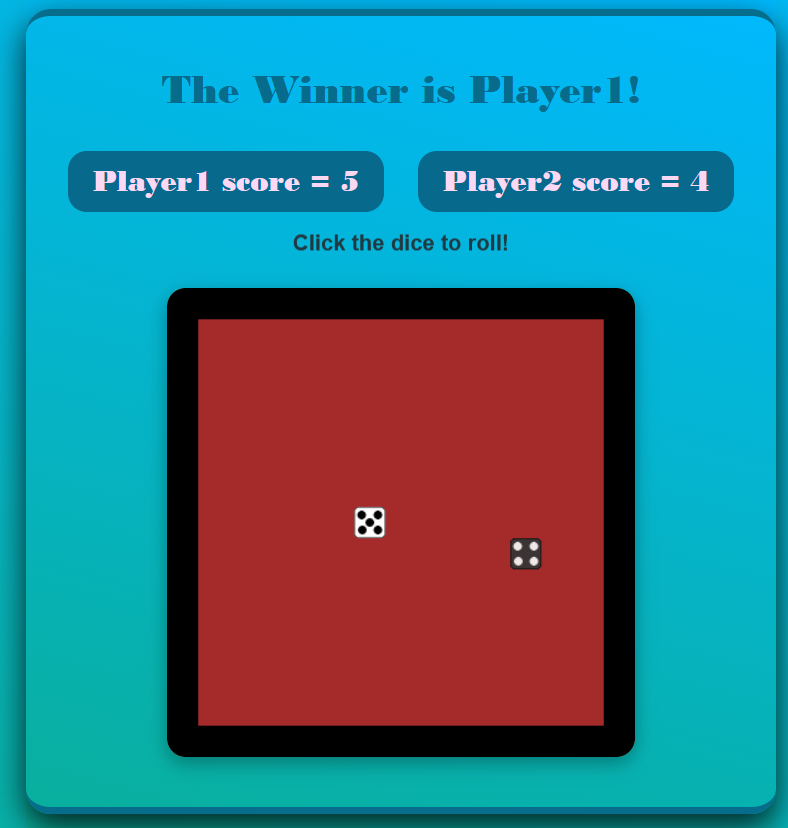
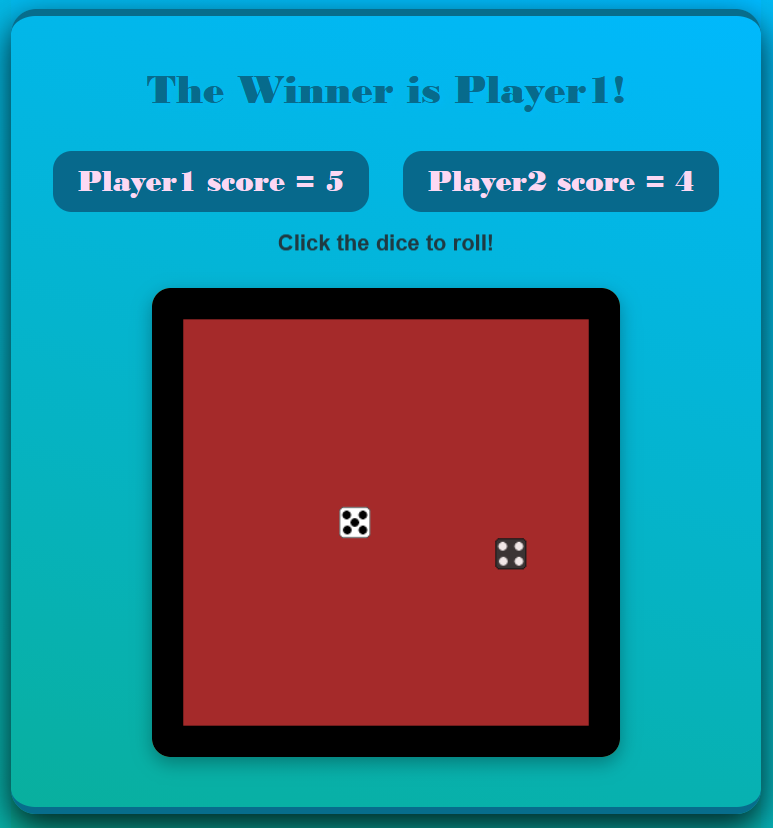
edited how some imiges are display and made them pop up

diff --git a/index.html b/index.html
@@ -44,102 +44,109 @@
         <!-- PROJECT 1 -->
         <div class="project-card">
           <h3>Book Scape</h3>
+          <a href="https://book-scape-phi.vercel.app/" target="_blank" class="projectImageLink"><img class="imgCard"
+              src="./media/bookSite.png"></a>
           <p>This is a website for users to log in and view covers of books they have read.
             Users can view each other’s pages sign-up and make a page to be able to search through book covers by author
             title or both.
             This project uses a MySQL DataBase for persistence, axios for accessing openlibrary.org to aquire book
             covers and express for the server.</p>
-          <a href="https://book-scape-phi.vercel.app/" target="_blank" class="projectLinks"><img class="imgCard"
-              src="./media/bookSite.png"></a>
           <a href="https://book-scape-phi.vercel.app/" target="_blank" class="projectLinks">Try out the Site powered
             here by Vercel</a>
           <a href="https://github.com/MichaelGalloway404/BookScape" target="_blank" class="projectLinks">repo:
             Book Scape writen for use on Vercel.com</a>
         </div>
         <!-- PROJECT 2 -->
-         <div class="project-card">
+        <div class="project-card">
           <h3>Linear Q-learning Game, Model, and Agent</h3>
+          </a><a href="./pages/LinearQDemo.html" target="_blank" class="projectImageLink"><img class="imgCard"
+              src="./media/LinearQ_Demo.png"></a>
           <p>Wrote a simple game in pygame were the player tries to pick up coins within a time limit and an enemy tries
             to stop them.
             I then wrote a Linear Q-learning agent and model to be able to play the game.</p>
           <a href="./pages/LinearQDemo.html" target="_blank" class="projectLinks">Watch a demo</a>
-          </a><a href="./pages/LinearQDemo.html" target="_blank" class="projectLinks"><img class="imgCard"
-              src="./media/LinearQ_Demo.png"></a>
           <a href="https://github.com/MichaelGalloway404/LinearQGame" target="_blank" class="projectLinks">repo:
             LinearQGame</a>
         </div>
 
         <!-- PROJECT 3 -->
-         <div class="project-card">
+        <div class="project-card">
           <h3>AI Object Recognition from Scratch</h3>
+          </a><a href="./pages/resNet9Demo.html" target="_blank" class="projectImageLink"><img class="imgCard"
+              src="./media/AI_Obj_Rec.png"></a>
           <p>Research project I did involving the resnet 9 architecture
             This is a Convolutional Neural Networks model I wrote, trained, and presented using the Resnet-9
             architecture for a research course at Eastern Oregon University in Fall 2024
             The model can distinguish between planes, cars, birds, cats, deer, dogs, frogs, horses, humans, or ships.
           </p>
           <a href="./pages/resNet9Demo.html" target="_blank" class="projectLinks">Watch a demo</a>
-          </a><a href="./pages/resNet9Demo.html" target="_blank" class="projectLinks"><img class="imgCard"
-              src="./media/AI_Obj_Rec.png"></a>
+
           <a href="https://github.com/MichaelGalloway404/ObjectRecognition" target="_blank" class="projectLinks">repo:
             Res-Net9 Demo</a>
         </div>
 
         <!-- PROJECT 4 -->
-         <div class="project-card">
+        <div class="project-card">
           <h3>2D to 3D Maze</h3>
+          </a><a href="https://michaelgalloway404.github.io/TwoDto3DMaze/" target="_blank" class="projectImageLink"><img
+              class="imgCard" src="./media/TwoDto3D.png"></a>
           <p>Program takes a 2D matrix of 1's and 0's and creates a 3d depiction of the maze. Player can control the
             camera
             via buttons on screen or Keyboard arrow keys.</p>
           <a href="https://michaelgalloway404.github.io/TwoDto3DMaze/" target="_blank" class="projectLinks">Test out the
             Game</a>
-          </a><a href="https://michaelgalloway404.github.io/TwoDto3DMaze/" target="_blank" class="projectLinks"><img
-              class="imgCard" src="./media/TwoDto3D.png"></a>
+
           <a href="https://github.com/MichaelGalloway404/TwoDto3DMaze" target="_blank" class="projectLinks">repo: 2D to
             3D maze</a>
         </div>
 
         <!-- PROJECT 5 -->
-         <div class="project-card">
+        <div class="project-card">
           <h3>Arcade Ragdoll Fighting Game</h3>
+          </a><a href="https://michaelgalloway404.github.io/RagDollArena/" target="_blank" class="projectImageLink"><img
+              class="imgCard" src="./media/RagDollArenaScreenShot.png"></a>
           <p>Arcade Ragdoll Fighting Game using the Unity Game Engine</p>
           <a href="https://michaelgalloway404.github.io/RagDollArena/" target="_blank" class="projectLinks">Test out the
             Game</a>
-          </a><a href="https://michaelgalloway404.github.io/RagDollArena/" target="_blank" class="projectLinks"><img
-              class="imgCard" src="./media/RagDollArenaScreenShot.png"></a>
+
           <a href="https://github.com/MichaelGalloway404/RagDollArena" target="_blank" class="projectLinks">repo: Arcade
             Ragdoll Fighting Game</a>
         </div>
 
         <!-- PROJECT 6 -->
-         <div class="project-card">
+        <div class="project-card">
           <h3>New York Times Spelling Bee Clone</h3>
+          </a><a href="./pages/SpellingBee.html" target="_blank" class="projectImageLink"><img class="imgCard"
+              src="./media/spellingBeeClone.png"></a>
           <p>For My Senior Project at Eastern Oregon University, we were tasked with creating a Clone of the New York
             Times Spelling Bee app. Our requirements were:
             Front end using JavaScript, HTML, and CSS. REST API using Pythons Flask library.
             And MySQL for the database containing 80k words provided by the professor via a word.txt file.</p>
           <a href="./pages/SpellingBee.html" target="_blank" class="projectLinks">Watch a demo</a>
-          </a><a href="./pages/SpellingBee.html" target="_blank" class="projectLinks"><img class="imgCard"
-              src="./media/spellingBeeClone.png"></a>
+
           <a href="https://github.com/MichaelGalloway404/SpellingBeeClone" target="_blank" class="projectLinks">repo:
             SpeelingBee Clone</a>
         </div>
 
         <!-- PROJECT 7 -->
-         <div class="project-card">
+        <div class="project-card">
           <h3>Water Balloon Fight Simulator</h3>
+          </a><a href="https://michaelgalloway404.github.io/WaterBalloonFightSim/" target="_blank"
+            class="projectImageLink"><img class="imgCard" src="./media/WaterBalloonFight.png"></a>
           <p>A fun Water Balloon Fight Simulator I made with pure JavaScript while taking my Algorithm Analysis Class at
             EOU CS_318 </p>
           <a href="https://michaelgalloway404.github.io/WaterBalloonFightSim/" target="_blank"
             class="projectLinks">Start a Water Balloon Fight!
-          </a><a href="https://michaelgalloway404.github.io/WaterBalloonFightSim/" target="_blank"
-            class="projectLinks"><img class="imgCard" src="./media/WaterBalloonFight.png"></a>
-          <a href="https://github.com/MichaelGalloway404/WaterBalloonFightSim" target="_blank"
-            class="projectLinks">repo: WaterBalloonFightSim</a>
+
+            <a href="https://github.com/MichaelGalloway404/WaterBalloonFightSim" target="_blank"
+              class="projectLinks">repo: WaterBalloonFightSim</a>
         </div>
 
         <!-- PROJECT 8 -->
-         <div class="project-card">
+        <div class="project-card">
           <h3>Dice Game called Goofed</h3>
+          </a><a href="https://michaelgalloway404.github.io/DiceGameGoofed/" target="_blank" class="projectImageLink"><img
+              class="imgCard" src="./media/goofed_dice_game.png"></a>
           <p>Dice game similar to a dice game that originated in the early 1600's called dice and has had many names
             since then. The 2D dice used in this game
             are logically equivalent to rolling real dice. When a die is rolled its current face is determined by both
@@ -152,86 +159,91 @@
           <a href="https://michaelgalloway404.github.io/DiceGameGoofed/" target="_blank" class="projectLinks">Test out
             the
             Game</a>
-          </a><a href="https://michaelgalloway404.github.io/DiceGameGoofed/" target="_blank" class="projectLinks"><img
-              class="imgCard" src="./media/goofed_dice_game.png"></a>
+
           <a href="https://github.com/MichaelGalloway404/DiceGameGoofed" target="_blank" class="projectLinks">repo: Dice
             Game</a>
         </div>
 
         <!-- PROJECT 9 -->
-         <div class="project-card">
+        <div class="project-card">
           <h3>The International Space Station (ISS) Tracker:</h3>
+          </a><a href="./pages/ISS_Tracker.html" target="_blank" class="projectImageLink"><img class="imgCard"
+              src="./media/ISS_Tracker.png"></a>
           <p>This is a fun little REST API project for tracking and plotting out the path of the ISS.
             This project makes use of axios, body-parser, and express for a Node based server, with the use of EJS in
             the front end.</p>
           <a href="./pages/ISS_Tracker.html" target="_blank" class="projectLinks">Watch a demo</a>
-          </a><a href="./pages/ISS_Tracker.html" target="_blank" class="projectLinks"><img class="imgCard"
-              src="./media/ISS_Tracker.png"></a>
+
           <a href="https://github.com/MichaelGalloway404/ISSTracker" target="_blank" class="projectLinks">repo:
             ISS Tracker</a>
-        </div> 
+        </div>
 
         <!-- PROJECT 10 -->
-         <div class="project-card">
+        <div class="project-card">
           <h3>The Game of Division</h3>
+          </a><a href="https://michaelgalloway404.github.io/TheDivisionGame/" target="_blank" class="projectImageLink"><img
+              class="imgCard" src="./media/Division_Game.png"></a>
           <p>This is a grid based game that uses division, the player is looking to get the least penalty. The game has
             a rules tab.</p>
           <a href="https://michaelgalloway404.github.io/TheDivisionGame/" target="_blank" class="projectLinks">Test out
             the
             Game</a>
-          </a><a href="https://michaelgalloway404.github.io/TheDivisionGame/" target="_blank" class="projectLinks"><img
-              class="imgCard" src="./media/Division_Game.png"></a>
+
           <a href="https://github.com/MichaelGalloway404/TheDivisionGame" target="_blank" class="projectLinks">repo:
             Snake Game</a>
         </div>
 
         <!-- PROJECT 11 -->
-         <div class="project-card">
+        <div class="project-card">
           <h3>Snake Game</h3>
+          </a><a href="https://michaelgalloway404.github.io/Snake_Game/" target="_blank" class="projectImageLink"><img
+              class="imgCard" src="./media/Snake_Game.png"></a>
           <p>Simple JavaScript Snake Game made</p>
           <a href="https://michaelgalloway404.github.io/Snake_Game/" target="_blank" class="projectLinks">Test out the
             Game</a>
-          </a><a href="https://michaelgalloway404.github.io/Snake_Game/" target="_blank" class="projectLinks"><img
-              class="imgCard" src="./media/Snake_Game.png"></a>
+
           <a href="https://github.com/MichaelGalloway404/Snake_Game" target="_blank" class="projectLinks">repo: Snake
             Game</a>
         </div>
 
         <!-- PROJECT 12 -->
-         <div class="project-card">
+        <div class="project-card">
           <h3>Zombie Survival Game</h3>
+          </a><a href="https://michaelgalloway404.github.io/ZombieSurvivalUnity/" target="_blank"
+            class="projectImageLink"><img class="imgCard" src="./media/zombieSurvivalUnity.png"></a>
           <p>Arcade Zombie Survival Game I made using the Unity Game Engine</p>
           <a href="https://michaelgalloway404.github.io/ZombieSurvivalUnity/" target="_blank" class="projectLinks">Test
             out the
             Game</a>
-          </a><a href="https://michaelgalloway404.github.io/ZombieSurvivalUnity/" target="_blank"
-            class="projectLinks"><img class="imgCard" src="./media/zombieSurvivalUnity.png"></a>
+
           <a href="https://github.com/MichaelGalloway404/ZombieSurvivalUnity" target="_blank" class="projectLinks">repo:
             Zombie Survival Game</a>
         </div>
 
         <!-- PROJECT 13 -->
-         <div class="project-card">
+        <div class="project-card">
           <h3>Hangman</h3>
           <p>Simple Hangman Game</p>
+          </a><a href="https://michaelgalloway404.github.io/HangMan/" target="_blank" class="projectImageLink"><img
+              class="imgCard" src="./media/HangManImg.png"></a>
           <a href="https://michaelgalloway404.github.io/HangMan/" target="_blank" class="projectLinks">Test out the
             Game</a>
-          </a><a href="https://michaelgalloway404.github.io/HangMan/" target="_blank" class="projectLinks"><img
-              class="imgCard" src="./media/HangManImg.png"></a>
+
           <a href="https://github.com/MichaelGalloway404/HangMan" target="_blank" class="projectLinks">repo: HangMan</a>
         </div>
 
         <!-- PROJECT 14 -->
-         <div class="project-card">
+        <div class="project-card">
           <h3>Art website</h3>
+          </a><a href="https://michaelgalloway404.github.io/CS352Portfolio/projects/project1.html" target="_blank"
+            class="projectImageLink"><img class="imgCard" src="./media/Art_Web_Page.png"></a>
           <p>Art website for my first web-devlepment/art course the link will send you to my favorite project in that
             class,
             It lets you create random variations of Piet Mondrian's most famous work "Composition II in Red, Blue, and
             Yellow, 1930"</p>
           <a href="https://michaelgalloway404.github.io/CS352Portfolio/" target="_blank" class="projectLinks">Vistit my
             art website</a>
-          </a><a href="https://michaelgalloway404.github.io/CS352Portfolio/projects/project1.html" target="_blank"
-            class="projectLinks"><img class="imgCard" src="./media/Art_Web_Page.png"></a>
+
           <a href="https://michaelgalloway404.github.io/CS352Portfolio/index.html" target="_blank"
             class="projectLinks">Art Home Page</a>
           <a href="https://github.com/MichaelGalloway404/CS352Portfolio" target="_blank" class="projectLinks">repo:
@@ -239,39 +251,42 @@
         </div>
 
         <!-- PROJECT 15 -->
-         <div class="project-card">
+        <div class="project-card">
           <h3>2 player Dice Battle Game</h3>
+          </a><a href="https://michaelgalloway404.github.io/diceGame/" target="_blank" class="projectImageLink"><img
+              class="imgCard" src="./media/dice_game.png"></a>
           <p>2 player Dice Game, die roll and player with higher die number wins. The 2D dice used in this game
             are logically equivalent to rolling real dice.</p>
           <a href="https://michaelgalloway404.github.io/diceGame/" target="_blank" class="projectLinks">Test out the
             Game</a>
-          </a><a href="https://michaelgalloway404.github.io/diceGame/" target="_blank" class="projectLinks"><img
-              class="imgCard" src="./media/dice_game.png"></a>
+
           <a href="https://github.com/MichaelGalloway404/diceGame" target="_blank" class="projectLinks">repo: Dice
             Game</a>
         </div>
 
         <!-- PROJECT 16 -->
-         <div class="project-card">
+        <div class="project-card">
           <h3>Calculator</h3>
+          </a><a href="https://michaelgalloway404.github.io/Calculator/" target="_blank" class="projectImageLink"><img
+              class="imgCard" src="./media/calculator.png"></a>
           <p>Calculator made while in school, can handle parentheses and implied multiplication ex: 6(-6) or -(6) ect...
           </p>
           <a href="https://michaelgalloway404.github.io/Calculator/" target="_blank" class="projectLinks">Test out the
             Calculator</a>
-          </a><a href="https://michaelgalloway404.github.io/Calculator/" target="_blank" class="projectLinks"><img
-              class="imgCard" src="./media/calculator.png"></a>
+
           <a href="https://github.com/MichaelGalloway404/Calculator" target="_blank" class="projectLinks">repo:
             Calculator</a>
         </div>
 
         <!-- PROJECT 17 -->
-         <div class="project-card">
+        <div class="project-card">
           <h3>Simon Game</h3>
           <p>Classic Simon Memory Game</p>
+          </a><a href=" https://michaelgalloway404.github.io/SimonGame/" target="_blank" class="projectImageLink"><img
+              class="imgCard" src="./media/Simon_Game.png"></a>
           <a href=" https://michaelgalloway404.github.io/SimonGame/" target="_blank" class="projectLinks">Test out the
             Game</a>
-          </a><a href=" https://michaelgalloway404.github.io/SimonGame/" target="_blank" class="projectLinks"><img
-              class="imgCard" src="./media/Simon_Game.png"></a>
+
           <a href="https://github.com/MichaelGalloway404/SimonGame" target="_blank" class="projectLinks">repo:
             HangMan</a>
         </div>
@@ -279,17 +294,18 @@
         <!-- PROJECT 18 -->
         <div class="project-card">
           <h3>Annoying Fly</h3>
+          </a><a href=" https://michaelgalloway404.github.io/AnnoyingFly/" target="_blank" class="projectImageLink"><img
+              class="imgCard" src="./media/Fly_Sim.png"></a>
           <p>Allows for the insertion of an annoying fly into any web page, Uses only JavaScript and emojis for
             animation.
             Includes a demo page to test out fly.</p>
           <a href=" https://michaelgalloway404.github.io/AnnoyingFly/" target="_blank" class="projectLinks">Test out the
             demo page</a>
-          </a><a href=" https://michaelgalloway404.github.io/AnnoyingFly/" target="_blank" class="projectLinks"><img
-              class="imgCard" src="./media/Fly_Sim.png"></a>
+
           <a href="https://github.com/MichaelGalloway404/AnnoyingFly" target="_blank" class="projectLinks">repo:
             Annoying Fly</a>
         </div>
-        
+
       </div>
 
     </section>

diff --git a/styles/style.css b/styles/style.css
@@ -10,6 +10,14 @@
   background-color: black;
 }
 
+.projectImageLink{
+  border: solid rgb(91, 181, 211) 2px;
+  border-radius: 5px;
+  background-color: black;
+  display: flex;
+  width: fit-content;
+}
+
 .projectLinks {
   color: rgb(20, 146, 199);
   text-decoration: none;
@@ -45,8 +53,12 @@ h2 {
 
 .imgCard {
   width: 250px;
-  /* border: solid #3498db 3px; */
   border-radius: 10px;
+  transition: transform 0.3s ease;
+}
+
+.imgCard:hover{
+  transform: scale(1.4);
 }
 
 /* Reset & Base Styles */
@@ -186,7 +198,7 @@ nav ul li a:hover {
 /* Projects Section */
 .projects {
   padding: 4rem 2rem;
-  background: #f4f9fd;
+  background: #d7dce0;
 }
 
 .projects h2 {
